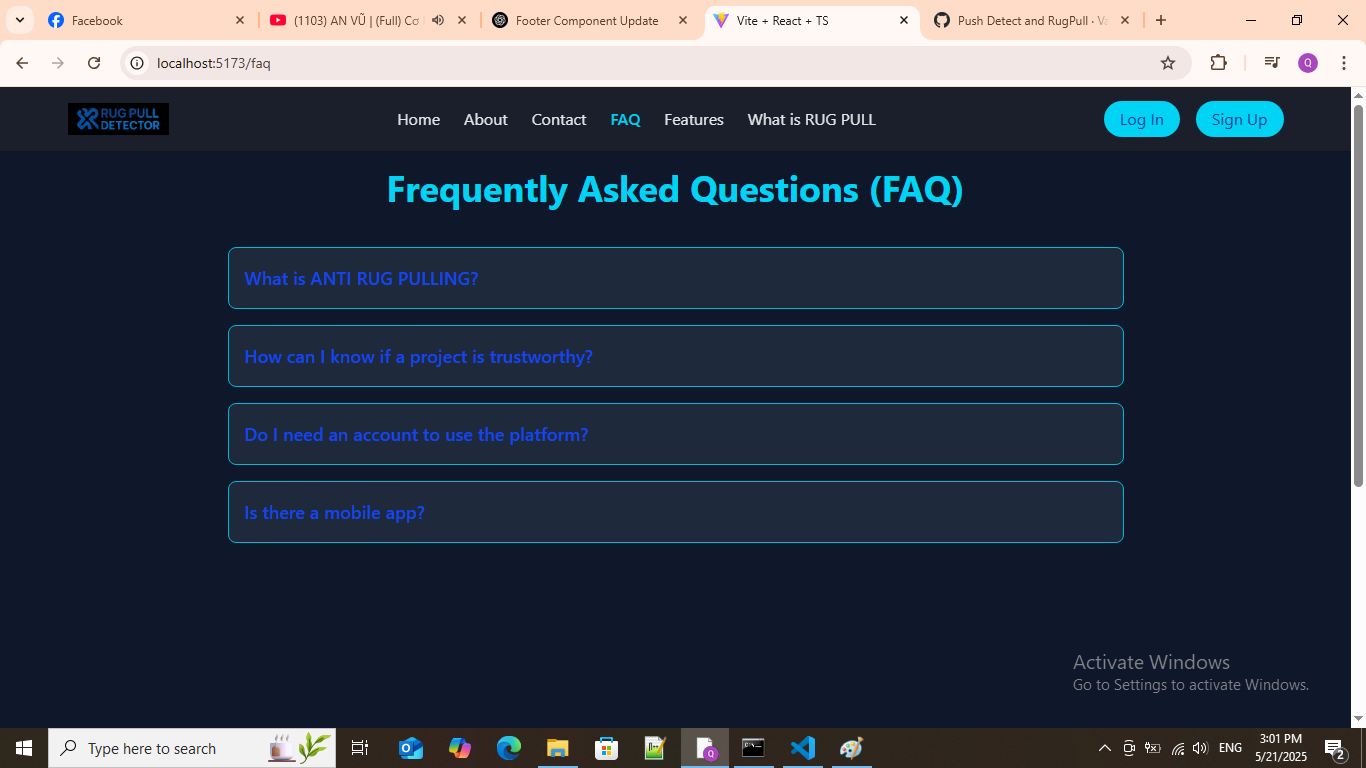
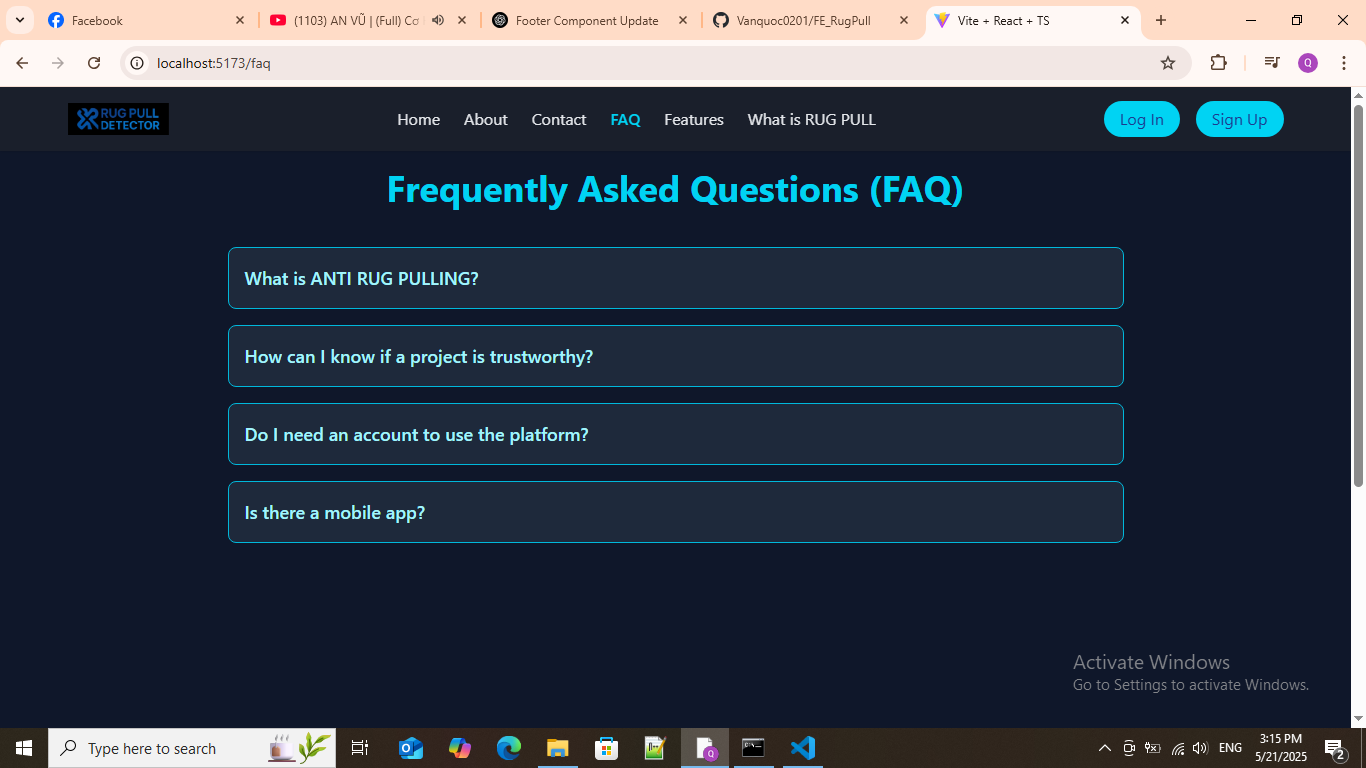
Complete

diff --git a/src/pages/HomeTemplates/FAQPage/index.tsx b/src/pages/HomeTemplates/FAQPage/index.tsx
@@ -45,7 +45,7 @@ const FAQPage = () => {
             >
               <button
                 onClick={() => toggle(index)}
-                className="w-full text-left text-lg font-semibold text-blue-700 hover:text-cyan-400 transition"
+                className="w-full text-left text-lg font-semibold text-cyan-200 hover:text-cyan-400 transition"
               >
                 {faq.question}
               </button>
